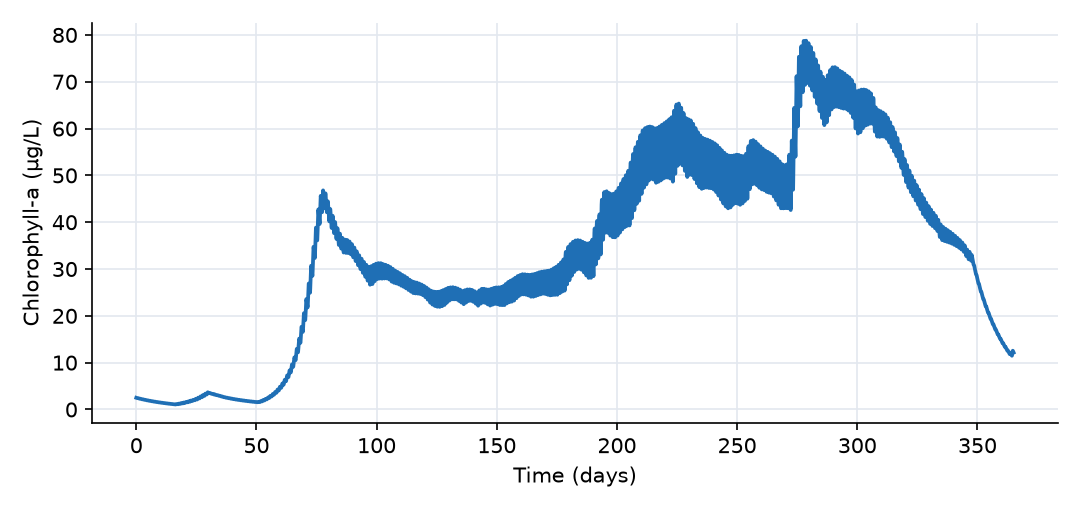
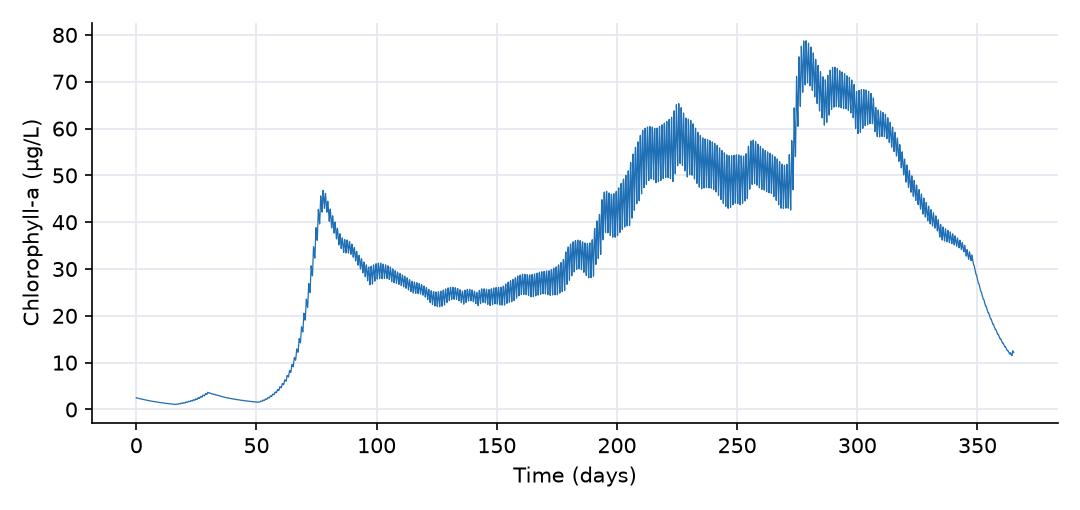
Lake eutrophication examples: thinner plot lines so daily cycles are visible; optional linewidth plot setting

diff --git a/tools/build.py b/tools/build.py
@@ -154,12 +154,13 @@ def make_plots(meta, series, out_dir, ex_dir):
             if "scale" in s:  # unit conversion, e.g. m/day to mm/h
                 v = [x * s["scale"] for x in v]
             style = s.get("style", "line")
+            lw = s.get("linewidth", p.get("linewidth"))   # optional, per series or per plot
             if style == "points":
                 ax.plot(t, v, "o", ms=3.5, color=color, label=label, alpha=.85)
             elif style == "dashed":
-                ax.plot(t, v, "--", color=color, lw=1.6, label=label)
+                ax.plot(t, v, "--", color=color, lw=lw or 1.6, label=label)
             else:
-                ax.plot(t, v, color=color, lw=1.8, label=label)
+                ax.plot(t, v, color=color, lw=lw or 1.8, label=label)
             found += 1
         if not found:
             plt.close(fig)

diff --git a/examples/stratified-lake-eutrophication/README.md b/examples/stratified-lake-eutrophication/README.md
@@ -104,23 +104,27 @@ inputs:
   tributary_OP_50pct.csv: "Half of tributary_OP.csv, read by the scenario model."
 plots:
   - title: Layer temperatures
+    linewidth: 0.6
     ylabel: Temperature (°C)
     series:
       - {column: "Epilimnion_T_water:value", label: "Epilimnion"}
       - {column: "Hypolimnion_T_water:value", label: "Hypolimnion"}
     caption: The layers have the same temperature until 1 May. During stratification the epilimnion follows the air to 30 °C while the hypolimnion warms only from 15.3 to 18.0 °C. Turnover on 5 October, when the cooling surface water reaches the bottom-water temperature, mixes the lake again.
   - title: Vertical exchange between the layers
+    linewidth: 0.6
     ylabel: Exchange flow (m³/day)
     logy: true
     series:
       - {column: "Exchange_down_flow", label: "Q_mix"}
     caption: The exchange flow drops a hundredfold, from 500 000 to 5000 m³/day, while the lake is stratified. The bottom water is then renewed only once every 480 days, against every 5 days while mixed.
   - title: Phytoplankton in the epilimnion
+    linewidth: 0.6
     ylabel: Chlorophyll-a (µg/L)
     series:
       - {column: "Obs_Epi_chl_a_expression", label: "Epilimnion"}
     caption: A spring bloom peaks at 41 µg/L in early May, just after stratification sets in. Phosphorus limits the summer epilimnion to 15 to 30 µg/L, and the phosphate mixed up at turnover feeds a short fall bloom of 38 µg/L.
   - title: Dissolved oxygen
+    linewidth: 0.6
     ylabel: O₂ (g/m³)
     series:
       - {column: "Epilimnion_O2:concentration", label: "Epilimnion"}
@@ -129,6 +133,7 @@ plots:
     hlines: [{y: 2.0, label: "Hypoxia (2 g/m³)"}]
     caption: Cut off from the atmosphere, the hypolimnion loses its oxygen within a month of stratification. It is hypoxic from 3 June to 21 October and close to anoxic for most of that time. At turnover the anoxic bottom water, with its ammonia and reduced species, mixes into the surface, and the epilimnion drops to 4.7 g/m³ (50% of saturation). The epilimnion is supersaturated through the summer, day and night (see What to look for).
   - title: Phosphorus in the two layers
+    linewidth: 0.6
     ylabel: Concentration (g P/m³)
     series:
       - {column: "Obs_Epi_total_P_expression", label: "Total P, epilimnion"}
@@ -136,6 +141,7 @@ plots:
       - {column: "Hypolimnion_PO4:concentration", label: "PO4, hypolimnion", style: dashed}
     caption: Phosphate released by the anoxic sediment accumulates below the thermocline, where hypolimnion total P climbs to 0.75 g P/m³ while the epilimnion stays near 0.05 to 0.09 g P/m³. Turnover mixes the two layers, and the epilimnion total P jumps to 0.45 g P/m³.
   - title: Nitrogen in the hypolimnion
+    linewidth: 0.6
     ylabel: Concentration (g N/m³)
     series:
       - {column: "Hypolimnion_NOx:concentration", label: "NOx, hypolimnion"}
@@ -143,6 +149,7 @@ plots:
       - {column: "Epilimnion_NOx:concentration", label: "NOx, epilimnion"}
     caption: Once the hypolimnion is anoxic, denitrification removes its nitrate (2.0 to 0.002 g N/m³) while ammonia from mineralization builds up to 1.6 g N/m³, since nitrification needs oxygen. At turnover the ammonia is nitrified in the mixed lake.
   - title: Phosphate release from the sediment
+    linewidth: 0.6
     ylabel: PO4 flux (mg P/m²/day)
     series:
       - {column: "Sediment_interface_PO4:masstransfer", label: "Sediment to hypolimnion", scale: -0.0033333}

diff --git a/examples/shallow-lake-eutrophication/README.md b/examples/shallow-lake-eutrophication/README.md
@@ -98,17 +98,20 @@ inputs:
   tributary_OP_50pct.csv: "Half of tributary_OP.csv, read by the scenario model."
 plots:
   - title: Phytoplankton
+    linewidth: 0.6
     ylabel: Chlorophyll-a (µg/L)
     series:
       - {column: "Obs_Chl_a_expression", label: "Chlorophyll-a"}
     caption: Algae stay below 3 µg/L under ice, bloom to about 47 µg/L in mid-March, hold at 22 to 35 µg/L in April and May, and grow to 50 to 65 µg/L in July and August as the water warms and the sediment releases phosphorus. The rise to 79 µg/L in early October is a response to the nitrate brought by the 118 mm storm of 30 September, which lifts the summer nitrogen limitation; it takes six days (net growth about 0.07 per day), not hours.
   - title: Phosphorus
+    linewidth: 0.6
     ylabel: Concentration (g P/m³)
     series:
       - {column: "Obs_Total_P_expression", label: "Total P"}
       - {column: "Lake_PO4:concentration", label: "PO4"}
     caption: Spring growth draws phosphate down to 0.003 g P/m³ (strong P limitation). From late July, once the algae are nitrogen limited, phosphate released by the sediment accumulates, and total P rises from 0.05 to 0.26 g P/m³ by the end of September before flushing and renewed sorption bring it down.
   - title: Nitrogen
+    linewidth: 0.6
     ylabel: Concentration (g N/m³)
     series:
       - {column: "Obs_Total_N_expression", label: "Total N"}
@@ -117,6 +120,7 @@ plots:
       - {column: "Lake_ON:concentration", label: "Organic N"}
     caption: Nitrate dominates in winter and spring (1.5 g N/m³). In summer algal uptake and denitrification exhaust it (below 0.01 g N/m³ from mid-August) and the algae become nitrogen limited; ammonia stays low because it is taken up as fast as it is released.
   - title: Dissolved oxygen
+    linewidth: 0.6
     ylabel: O₂ (g/m³)
     series:
       - {column: "Lake_O2:concentration", label: "DO"}
@@ -124,6 +128,7 @@ plots:
     hlines: [{y: 2.0, label: "Hypoxia (2 g/m³)"}]
     caption: Under ice, with no reaeration, respiration pulls DO from 12 to between 6.3 and 9.6 g/m³ while saturation is 14 g/m³. In spring and summer photosynthesis supersaturates the lake by day and respiration pulls it below saturation on most nights from August on. The wind-mixed lake never approaches hypoxia.
   - title: Diel oxygen cycle in late August
+    linewidth: 0.6
     ylabel: O₂ (g/m³)
     xlim: [230, 250]
     ylim: [6, 11]
@@ -132,11 +137,13 @@ plots:
       - {column: "Obs_DO_saturation_expression", label: "Saturation", style: dashed}
     caption: Photosynthesis raises DO to 8.2 to 8.7 g/m³ (103 to 110% of saturation) each afternoon, and algal respiration, decomposition and sediment demand pull it to 7.0 to 7.4 g/m³ before dawn, 0.5 to 0.8 g/m³ below saturation, a daily swing of 1.0 to 1.4 g/m³.
   - title: Phosphate release from the sediment
+    linewidth: 0.6
     ylabel: PO4 flux (mg P/m²/day)
     series:
       - {column: "Sediment_interface_PO4:masstransfer", label: "Sediment to lake", scale: -0.002}
     caption: The release is 1 to 5 mg P/m²/day in the cold, oxic months and rises to 20 to 31 mg P/m²/day from mid-August to early September, when the warm sediment is nearly anoxic. Over the year it adds 1370 kg of P to the water, 1.5 times the tributary load.
   - title: Sediment pore water
+    linewidth: 0.6
     ylabel: Concentration (g/m³)
     series:
       - {column: "Sediment_O2:concentration", label: "O2"}

diff --git a/CURATION.md b/CURATION.md
@@ -71,7 +71,7 @@ plots:
 Plot series can also come from a file in the example folder, to overlay an analytical solution or
 observed data: `{file: "exact_solution.csv", label: "Analytical", style: points}` (two numeric columns,
 non-numeric header lines skipped). `style` is `line` (default), `dashed` or `points`; `color` is optional, and `scale` multiplies values (unit conversion, e.g. `scale: 1.157e-5` for m³/day to m³/s).
-Per plot: `xlim: [a, b]`, `ylim: [a, b]`, `logy: true`, and `hlines: [{y: 4.0e6, label: "S_min"}]` for reference levels. A series `{columns: [a, b, c], label: "Total outflow"}` plots the sum of several outputs.
+Per plot (or per series): `linewidth: 0.6` thins lines so fast cycles stay visible. Per plot: `xlim: [a, b]`, `ylim: [a, b]`, `logy: true`, and `hlines: [{y: 4.0e6, label: "S_min"}]` for reference levels. A series `{columns: [a, b, c], label: "Total outflow"}` plots the sum of several outputs.
 
 Figures that the forward run cannot produce (calibration fits, posterior histograms) go in a
 `results/` subfolder. The build copies it to the site and into the zip. Reference such figures from the README body as
